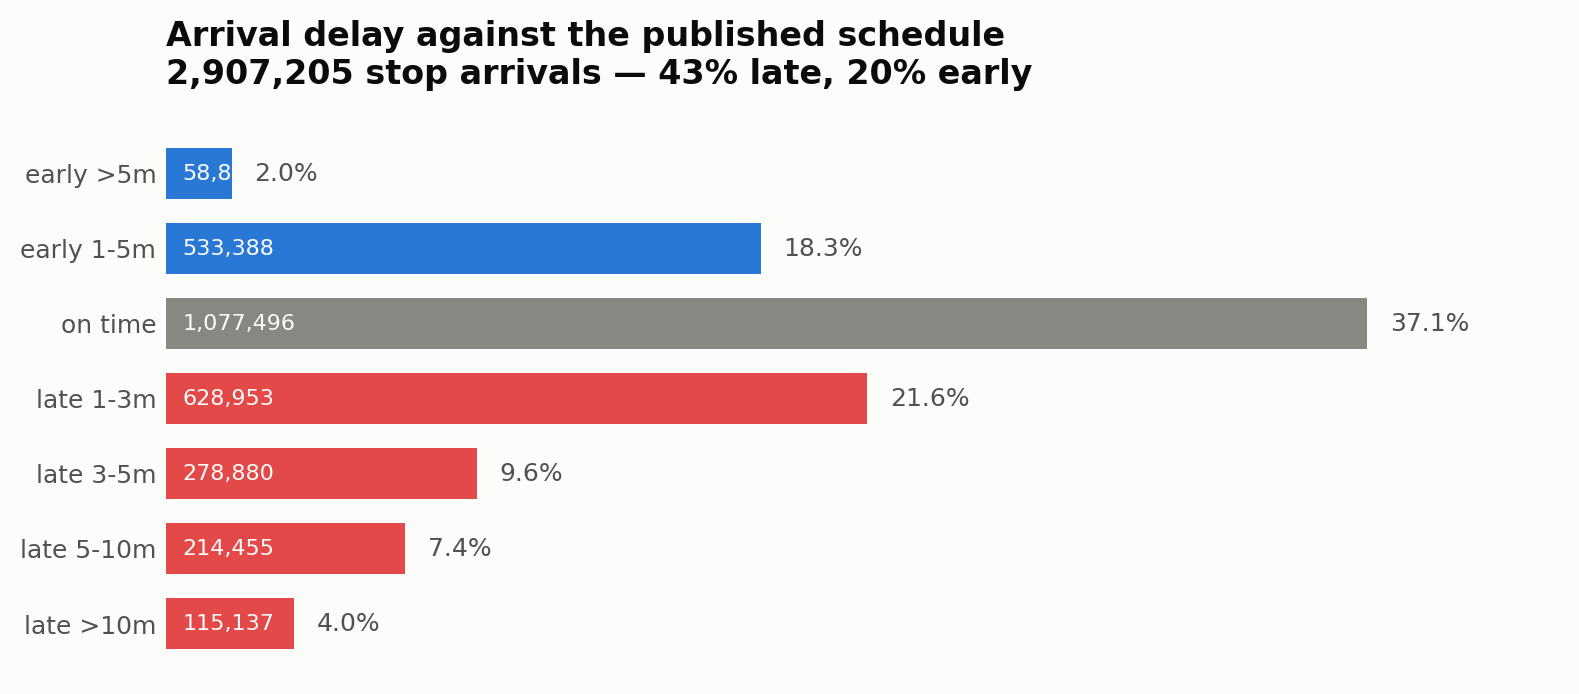
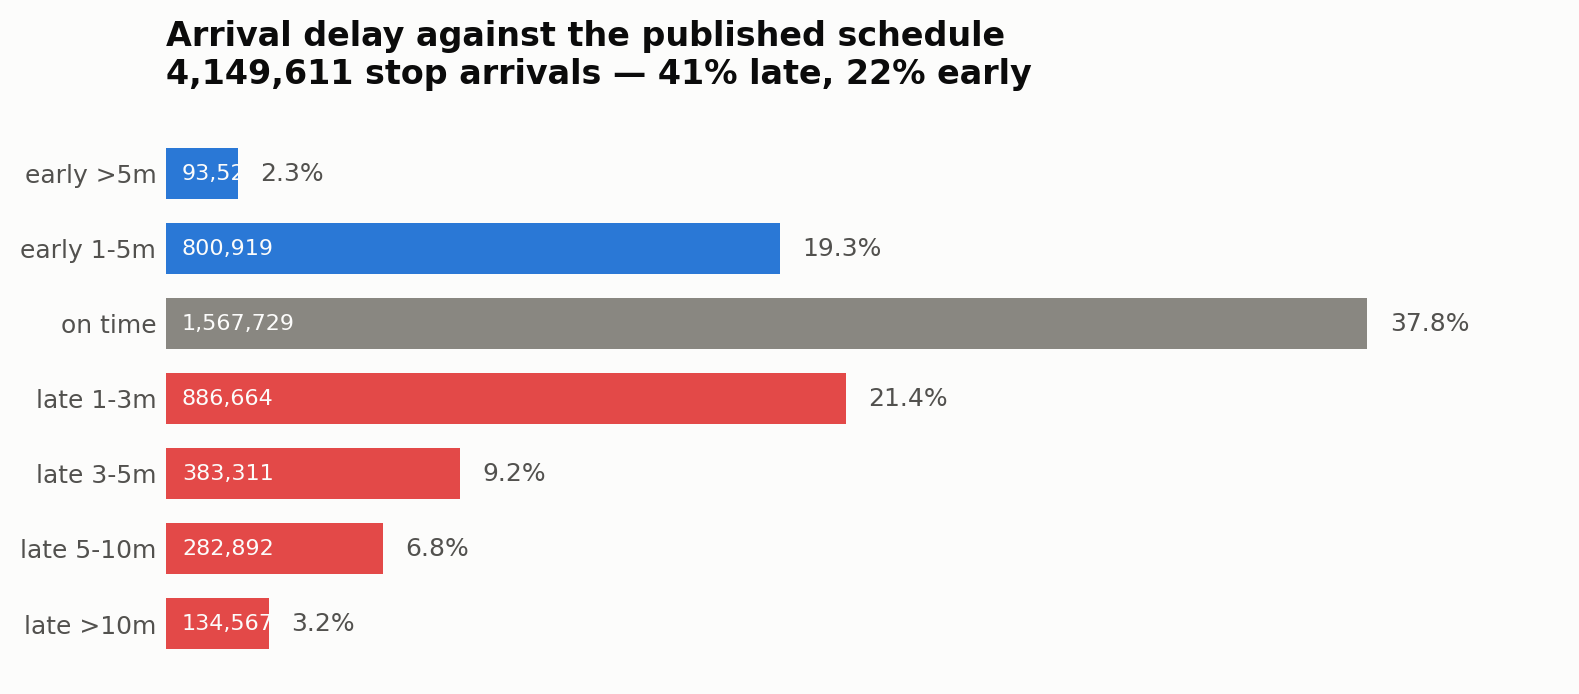
docs: agent refresh 2026-08-19

diff --git a/reports/2026-08-19.md b/reports/2026-08-19.md
@@ -1,0 +1,118 @@
+# TransitPulse daily report — 2026-08-19
+
+**Status: degraded (amber)** · 0 critical · 0 warning · 0 info
+
+The pipeline isn’t fully fine – both the infrastructure and code components are reporting degraded status, while cost and data quality remain healthy. Prioritize diagnosing and fixing the infrastructure issue today, as it’s the most critical blocker.
+
+| Agent | Status | Headline |
+| --- | --- | --- |
+| infrastructure | degraded | The infrastructure agent answered but could not be structured. |
+| cost | healthy | Spend is healthy; all costs are well below configured thresholds. |
+| data quality | healthy | All service days are usable and overall status is healthy. |
+| code | degraded | The code agent answered but could not be structured. |
+
+## Key numbers
+
+```
+most recent day (2026-08-18): $0.54 vs threshold $1.50
+day before (2026-08-17): $0.84
+3-day median: $0.78/day   (mean $0.72/day)
+projected month from the median: $24.33 vs threshold $45.00
+projected month if 2026-08-18 repeats: $16.83
+OK: most recent day $0.54 and projected month $24.33 are both within threshold
+
+Note: $0.54 of credits were applied on 2026-08-18, so the invoice for that day is near zero. The figures above are gross usage, which is what says whether the pipeline is wasteful.
+
+days  first_day   last_day  
+8     2026-08-11  2026-08-18
+
+8 of 21 days collected, 13 to go
+```
+
+## Infrastructure
+
+_The infrastructure agent answered but could not be structured._
+
+```
+infrastructure: raw output: **Infrastructure Health Check – TransitPulse (2026‑08‑19)**  
+
+**Findings**
+
+| Component | Status | Evidence |
+|-----------|--------|----------|
+| CloudWatch Alarms | **OK** (no alarms in ALARM state) | `ingest-stalled`, `kinesis-iterator-age`, `poller-dlq-not-empty`, `poller-errors` all **OK**; `model-mae-degraded` **INSUFFICIENT_DATA** (no error metrics, healthy) |
+| EventBridge Schedules | **OK** (all enabled) | `poll` (2‑min rate) and all other rules are **ENABLED** |
+| Ingestion (Kinesis & Firehose) | **OK** | Kinesis: **101,150** records in, **3,693.8 MB**, throttled = 0, max iterator ag
+```
+
+_No findings._
+
+## Cost
+
+_Spend is healthy; all costs are well below configured thresholds._
+
+```
+Last complete day (2026-08-18) gross usage cost: $0.54
+3-day median run-rate: $0.78/day (mean $0.72/day)
+Projected month-end total (based on median): $24.33
+Daily limit: $1.50/day
+Monthly limit: $45.00/month
+```
+
+_No findings._
+
+## Data Quality
+
+_All service days are usable and overall status is healthy._
+
+```
+Distinct service days in the silver stop_events table: 8
+Target for Phase 5: 21 days
+Days remaining: 13
+2026‑08‑18 events: 439074
+2026‑08‑18 label_rate: 0.992
+2026‑08‑18 dupes: 0
+2026‑08‑17 events: 644991
+2026‑08‑17 label_rate: 0.992
+2026‑08‑17 dupes: 0
+2026‑08‑16 events: 458777
+2026‑08‑16 label_rate: 0.982
+2026‑08‑16 dupes: 0
+2026‑08‑15 events: 507911
+2026‑08‑15 label_rate: 0.981
+2026‑08‑15 dupes: 0
+2026‑08‑14 events: 642064
+2026‑08‑14 label_rate: 0.989
+2026‑08‑14 dupes: 0
+2026‑08‑13 events: 550454
+2026‑08‑13 label_rate: 0.991
+2026‑08‑13 dupes: 0
+2026‑08‑12 events: 611712
+2026‑08‑12 label_rate: 0.988
+2026‑08‑12 dupes: 0
+Dupes = 0 (critical requirement)
+Label rate ≥ 0.85 (all > 0.98)
+Events ≥ 150 k (all > 400 k)
+```
+
+_No findings._
+
+## Code
+
+_The code agent answered but could not be structured._
+
+```
+code: raw output: **Status:** healthy  
+
+**Findings:** []  
+
+**Patches:** []
+```
+
+_No findings._
+
+---
+
+[Full LangSmith trace for this run](https://smith.langchain.com/o/d6b05b2b-d6bb-42d9-8f4a-0f333f970ebf/projects/p/64a08f38-5836-495c-be0e-8e8ab363ba2b/trace/01a01834-ed6a-78f3-9051-ec669ddde5f6/run/01a01834-ed6a-78f3-9051-ec669ddde5f6?start_time=2026-08-19T04%3A08%3A36.970098%2B00%3A00)
+
+Generated by the TransitPulse ops agent at 2026-08-19 04:13 UTC using `openai/gpt-oss-120b` via Groq. Thresholds: 1.50 USD/day, 45.00 USD/month, 21 day collection target.

diff --git a/README.md b/README.md
@@ -11,7 +11,7 @@ its own operations report.
 ## Status
 
 <!-- agent:status:begin -->
-**As of 2026-08-17, the data half is in production and the model half is not.**
+**As of 2026-08-19, the data half is in production and the model half is not.**
 
 | Stage | State |
 |---|---|
@@ -21,9 +21,9 @@ its own operations report.
 | Training, evaluation, model registry | provisioned in Terraform, never run |
 | Inference endpoint, prediction API | infrastructure live, no model behind it |
 
-Nothing is trained yet, so no model has been registered and no endpoint exists. Phase 5 splits train/validation/test by time, which needs 21 distinct service days; **6 are collected**, 15 to go.
+Nothing is trained yet, so no model has been registered and no endpoint exists. Phase 5 splits train/validation/test by time, which needs 21 distinct service days; **8 are collected**, 13 to go.
 
-Gross usage on 2026-08-16 was **$0.78**, a $0.95/day median over the last three days (≈$29/month at that rate).
+Gross usage on 2026-08-18 was **$0.91**, a $0.84/day median over the last three days (≈$26/month at that rate).
 <!-- agent:status:end -->
 
 The MAE figures below are **baselines computed from collected data**, not model
@@ -41,16 +41,16 @@ Collection is deliberately paced rather than rushed. Progress: `make data`.
 ### Baselines, measured
 
 <!-- agent:baselines:begin -->
-Over 2,907,205 labelled stop arrivals, 2026-08-11 to 2026-08-16. **Preliminary**: too few days to cover a weekend, rain, or an incident. Figures come from `sql/07_profile_queries.sql`.
+Over 4,149,611 labelled stop arrivals, 2026-08-11 to 2026-08-18. **Preliminary**: too few days to cover a weekend, rain, or an incident. Figures come from `sql/07_profile_queries.sql`.
 
 | Predictor | MAE (seconds) |
 |---|---|
-| Published schedule (predict zero delay) | **174.0** |
-| Persistence (bus stays as late as it currently is) | **150.7** |
+| Published schedule (predict zero delay) | **161.2** |
+| Persistence (bus stays as late as it currently is) | **141.0** |
 | Historical median for route/stop/hour | see `sql/07_profile_queries.sql` query 4 |
 | **XGBoost model** | pending, Phase 6 |
 
-Persistence beats the printed timetable by 13.4%. The registry gate is `mae_ratio_vs_persistence <= 0.92`, so a model must reach **≤ 138.6 seconds** to be registered at all.
+Persistence beats the printed timetable by 12.5%. The registry gate is `mae_ratio_vs_persistence <= 0.92`, so a model must reach **≤ 129.7 seconds** to be registered at all.
 <!-- agent:baselines:end -->
 
 That persistence number is the honest bar. "A bus four minutes late tends to stay
@@ -105,7 +105,7 @@ Decisions and their trade-offs are recorded in `docs/adr/`.
 ## What the data looks like
 
 <!-- agent:dataprofile:begin -->
-2,946,252 stop arrivals over 6 days of collection (2026-08-11 to 2026-08-16), label completeness 0.987.
+4,199,181 stop arrivals over 8 days of collection (2026-08-11 to 2026-08-18), label completeness 0.988.
 <!-- agent:dataprofile:end -->
 
 The charts below are regenerated daily from

diff --git a/reports/2026-08-18-docs-drift.md b/reports/2026-08-18-docs-drift.md
@@ -1,0 +1,29 @@
+# README drift check — 2026-08-18
+
+Claims that appear to contradict live facts. **Not auto-corrected**: a sentence is an argument, and rewriting one should be a decision.
+
+- **certain** — "Everything from the SageMaker Pipeline onward is provisioned and waiting for a training window."
+  SageMaker pipelines deployed: 0 (no pipelines exist)
+
+- **certain** — "because a time-based split needs 21 service days and 2 are collected."
+  Service days collected: 7 of 21 (7 days have been collected, not 2)
+
+---
+
+Facts at 2026-08-18 21:42 UTC:
+
+```
+- Service days collected: 7 of 21
+- Stop arrivals in silver: 3,554,281
+- Label completeness: 0.987
+- MAE, published schedule: 166.2s
+- MAE, persistence: 144.5s
+- Persistence beats schedule by: 13.1%
+- SageMaker endpoints deployed: 0
+- Registered model packages: 0
+- SageMaker pipelines: 0
+- Ingestion EventBridge rule enabled: True
+- Last ETL execution: SUCCEEDED
+- Gross usage on 2026-08-17: $0.84
+- 3-day median usage: $0.84/day
+```

diff --git a/reports/2026-08-19-docs-drift.md b/reports/2026-08-19-docs-drift.md
@@ -1,0 +1,26 @@
+# README drift check — 2026-08-19
+
+Claims that appear to contradict live facts. **Not auto-corrected**: a sentence is an argument, and rewriting one should be a decision.
+
+- **certain** — "because a time-based split needs 21 service days and 2 are collected."
+  Service days collected: 8 of 21
+
+---
+
+Facts at 2026-08-19 15:56 UTC:
+
+```
+- Service days collected: 8 of 21
+- Stop arrivals in silver: 4,199,181
+- Label completeness: 0.988
+- MAE, published schedule: 161.2s
+- MAE, persistence: 141.0s
+- Persistence beats schedule by: 12.5%
+- SageMaker endpoints deployed: 0
+- Registered model packages: 0
+- SageMaker pipelines: 0
+- Ingestion EventBridge rule enabled: True
+- Last ETL execution: SUCCEEDED
+- Gross usage on 2026-08-18: $0.91
+- 3-day median usage: $0.84/day
+```
